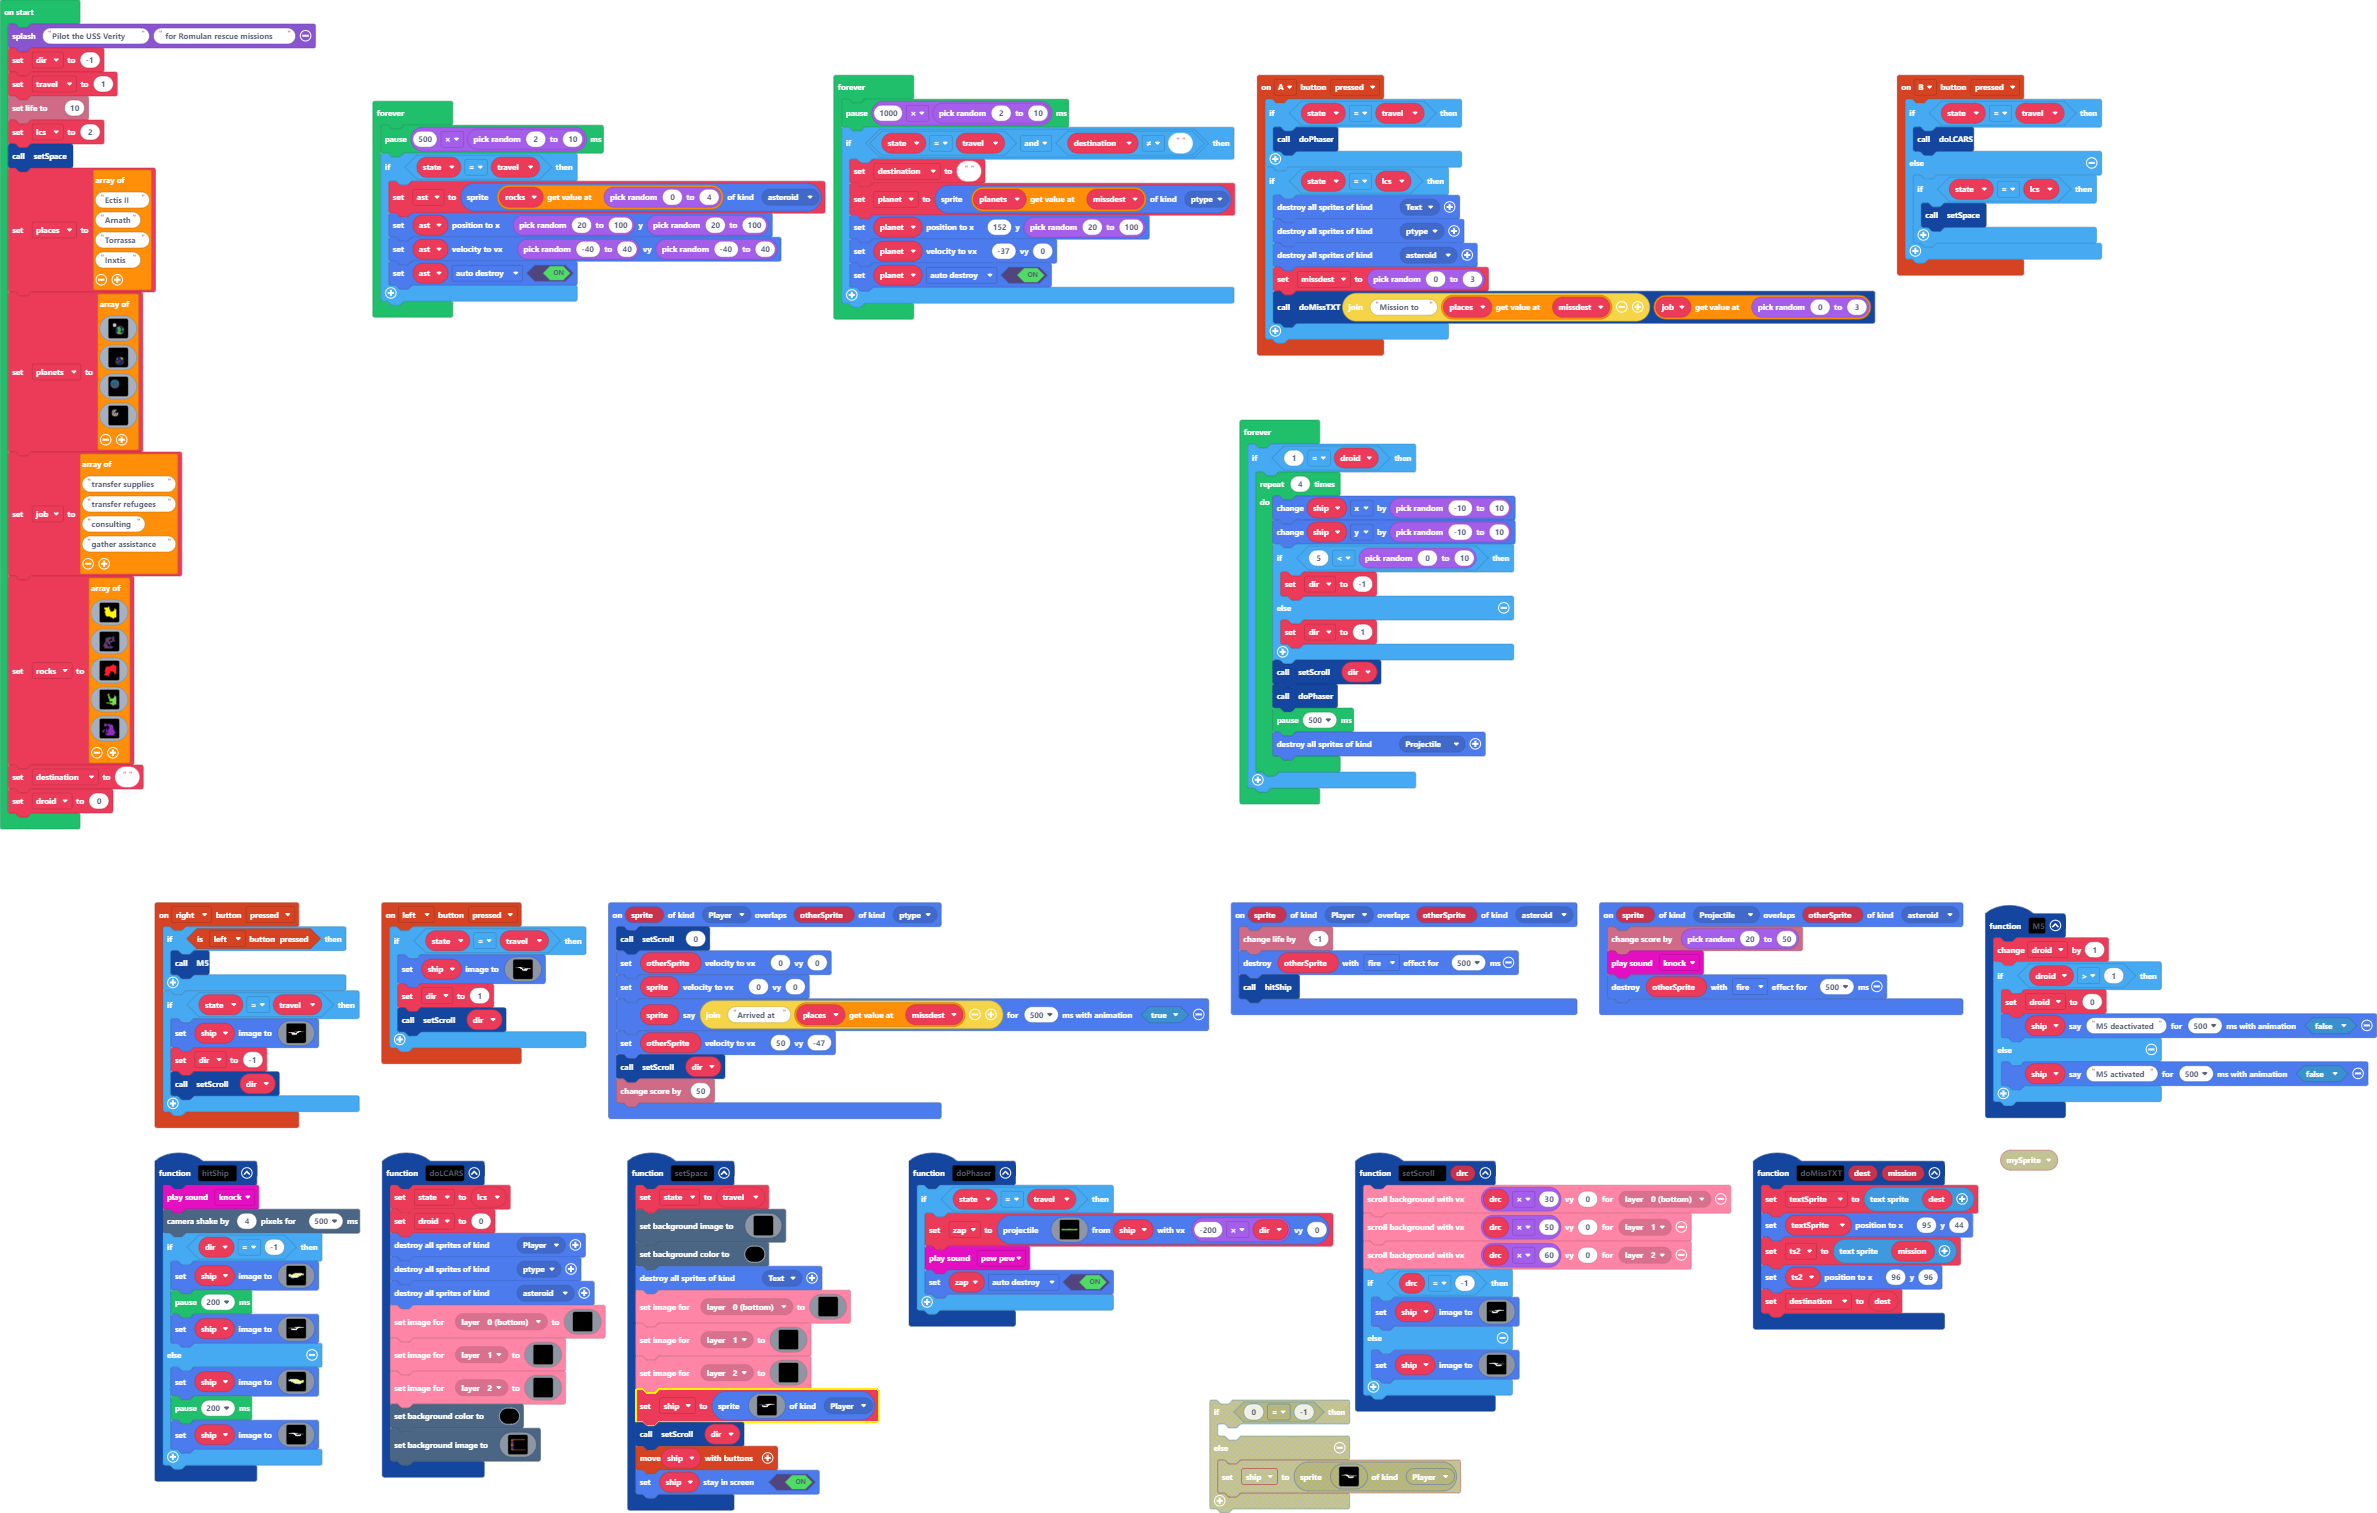
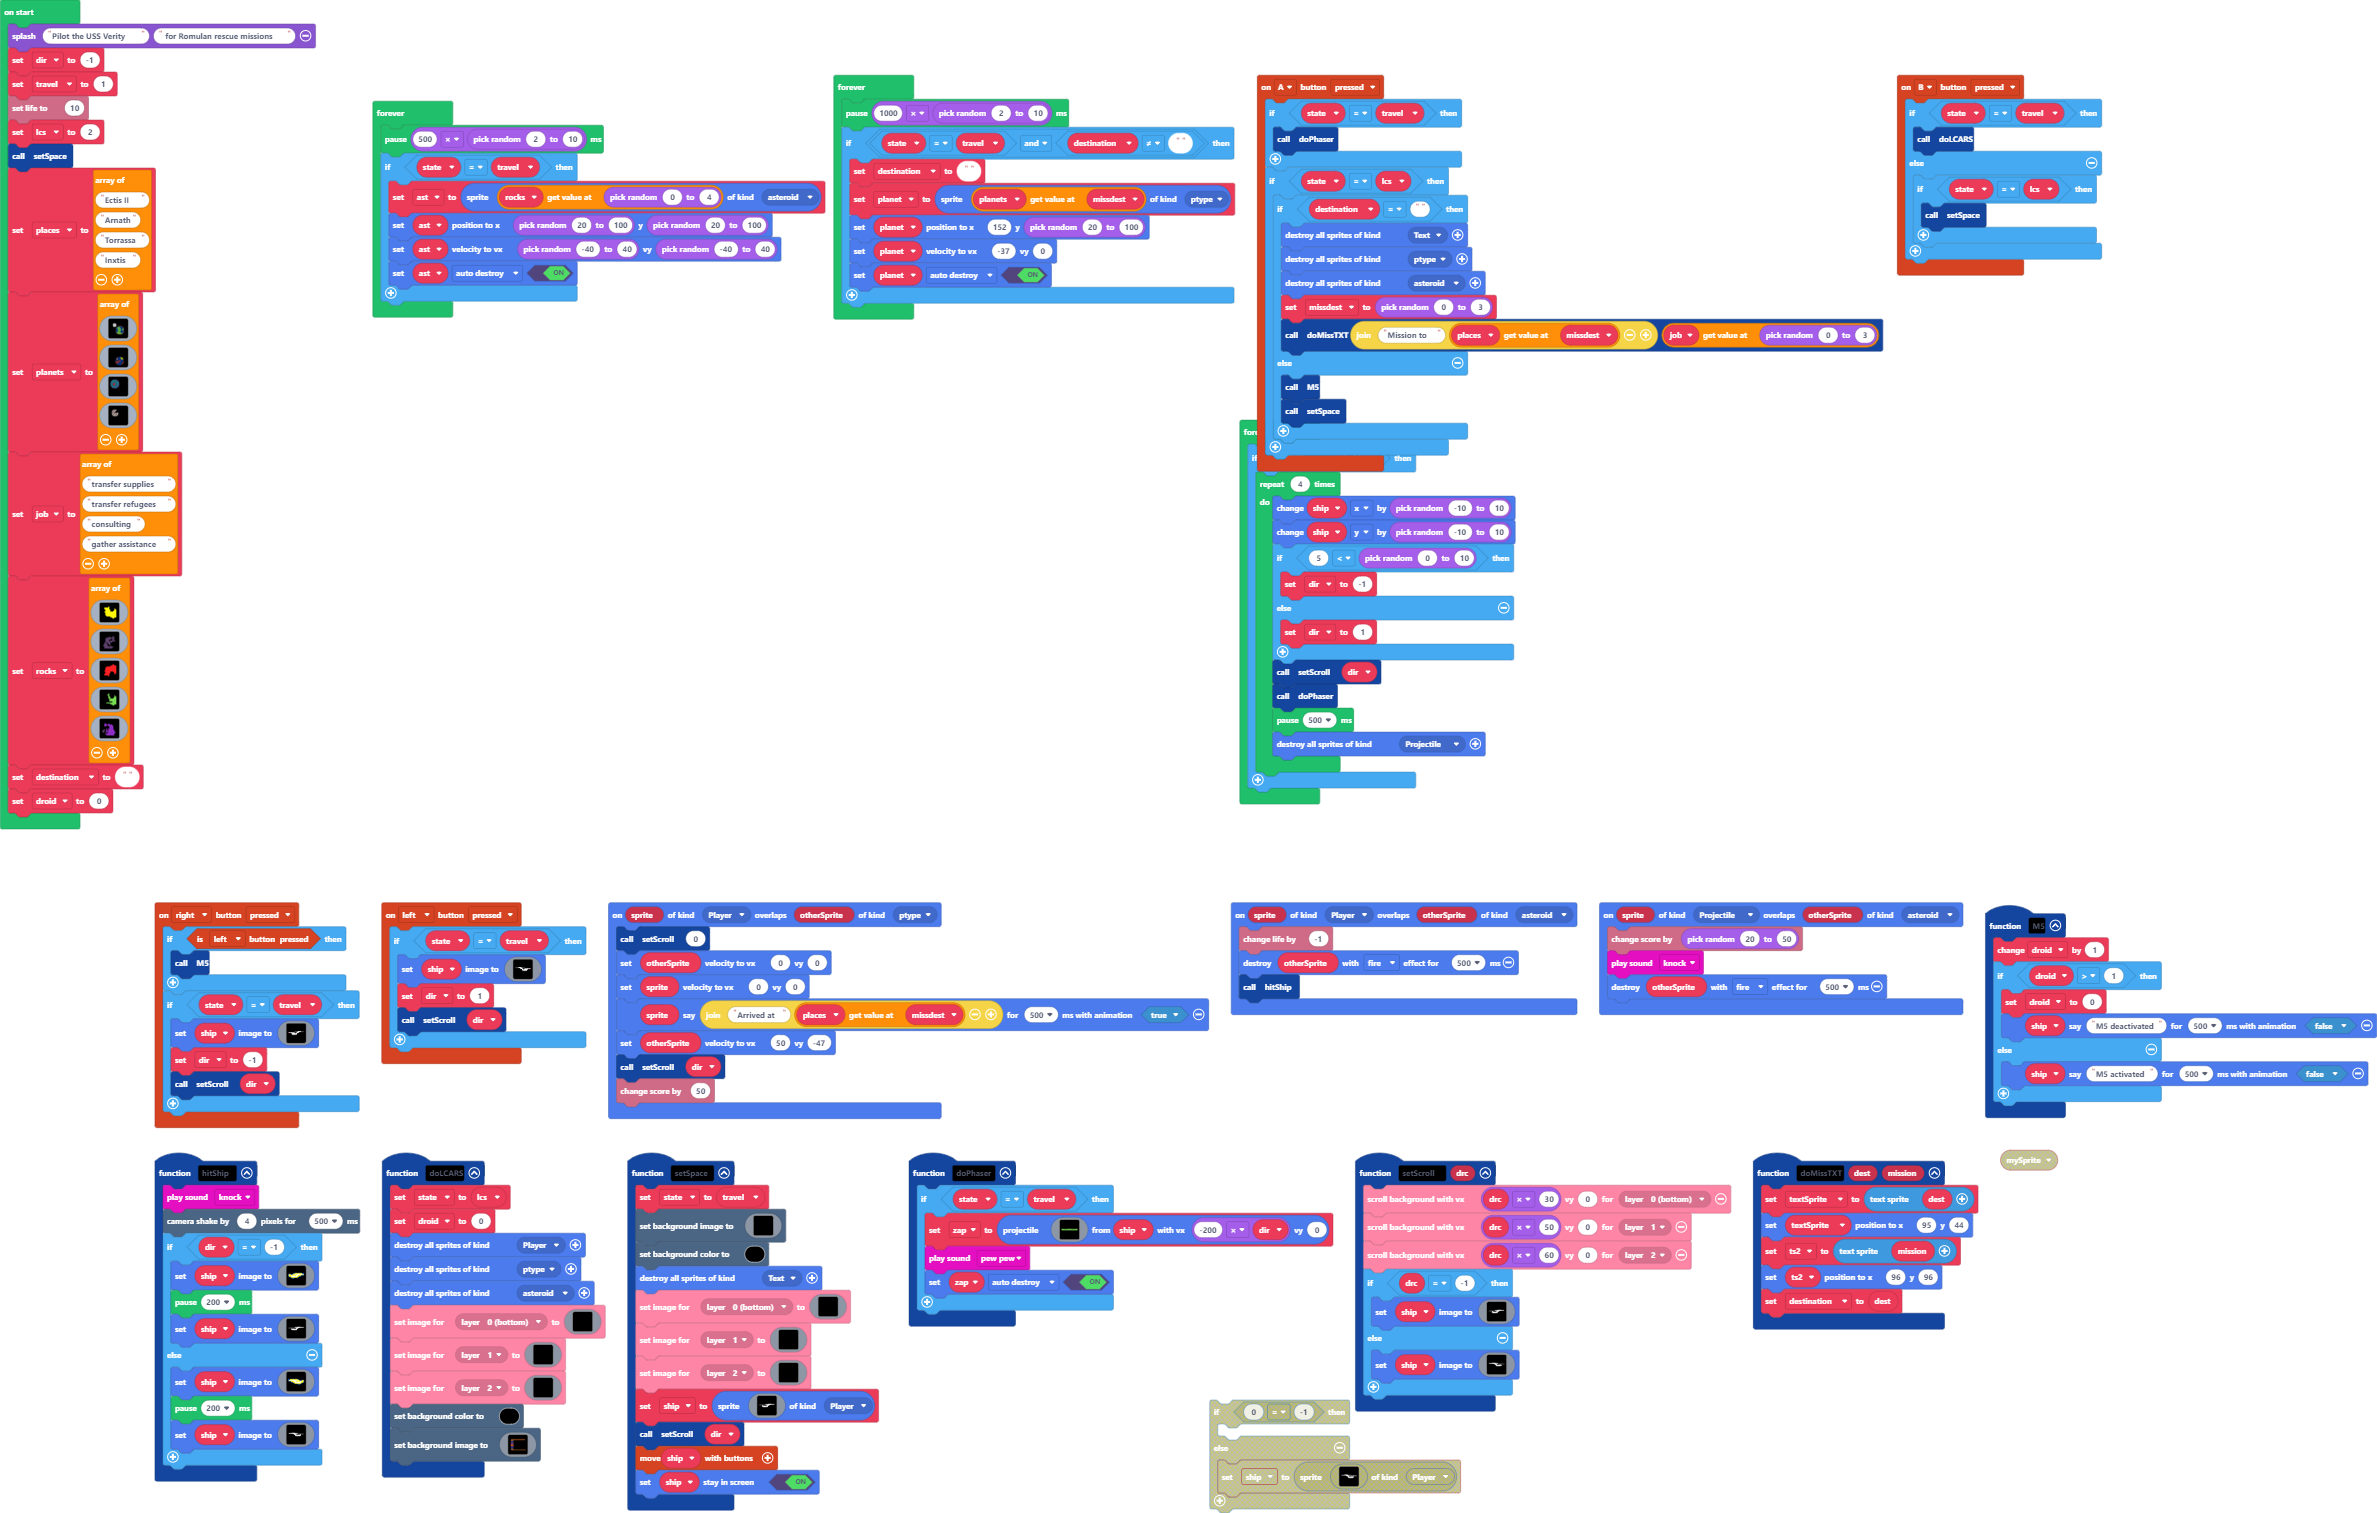
Update main.blocks, main.ts

Changed region(s): [[0.5292, 0.1243, 0.8094, 0.3106]]

diff --git a/main.ts b/main.ts
@@ -51,11 +51,16 @@ controller.A.onEvent(ControllerButtonEvent.Pressed, function () {
         doPhaser()
     }
     if (state == lcs) {
-        sprites.destroyAllSpritesOfKind(SpriteKind.Text)
-        sprites.destroyAllSpritesOfKind(SpriteKind.ptype)
-        sprites.destroyAllSpritesOfKind(SpriteKind.asteroid)
-        missdest = randint(0, 3)
-        doMissTXT("Mission to " + places[missdest], job[randint(0, 3)])
+        if (destination == "") {
+            sprites.destroyAllSpritesOfKind(SpriteKind.Text)
+            sprites.destroyAllSpritesOfKind(SpriteKind.ptype)
+            sprites.destroyAllSpritesOfKind(SpriteKind.asteroid)
+            missdest = randint(0, 3)
+            doMissTXT("Mission to " + places[missdest], job[randint(0, 3)])
+        } else {
+            M5()
+            setSpace()
+        }
     }
 })
 sprites.onOverlap(SpriteKind.Player, SpriteKind.asteroid, function (sprite, otherSprite) {
